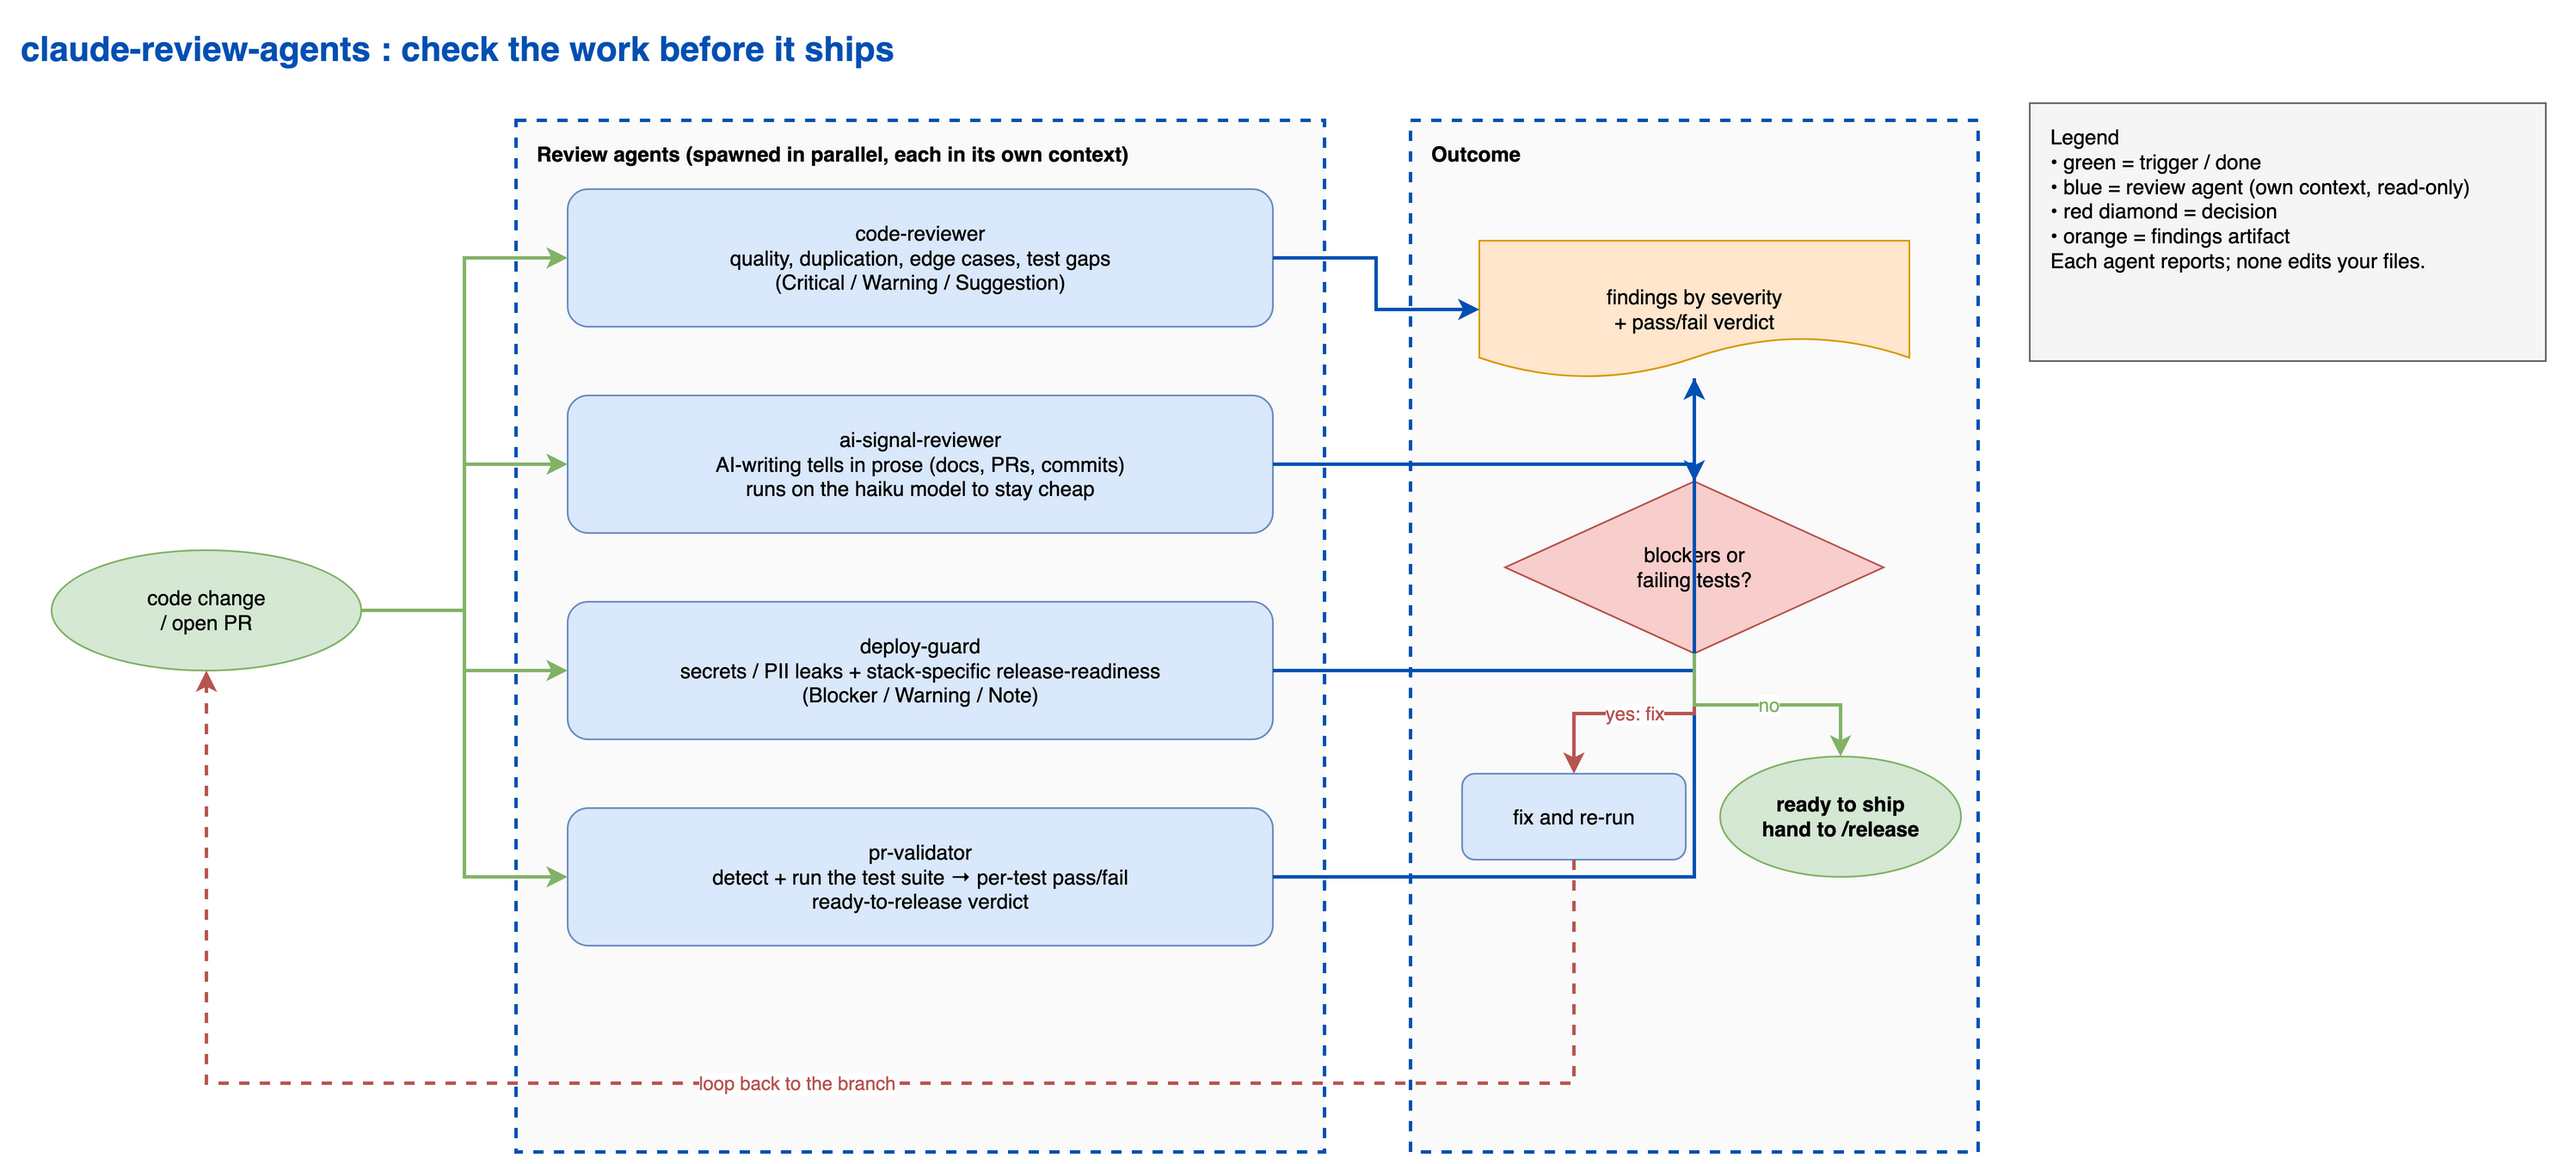
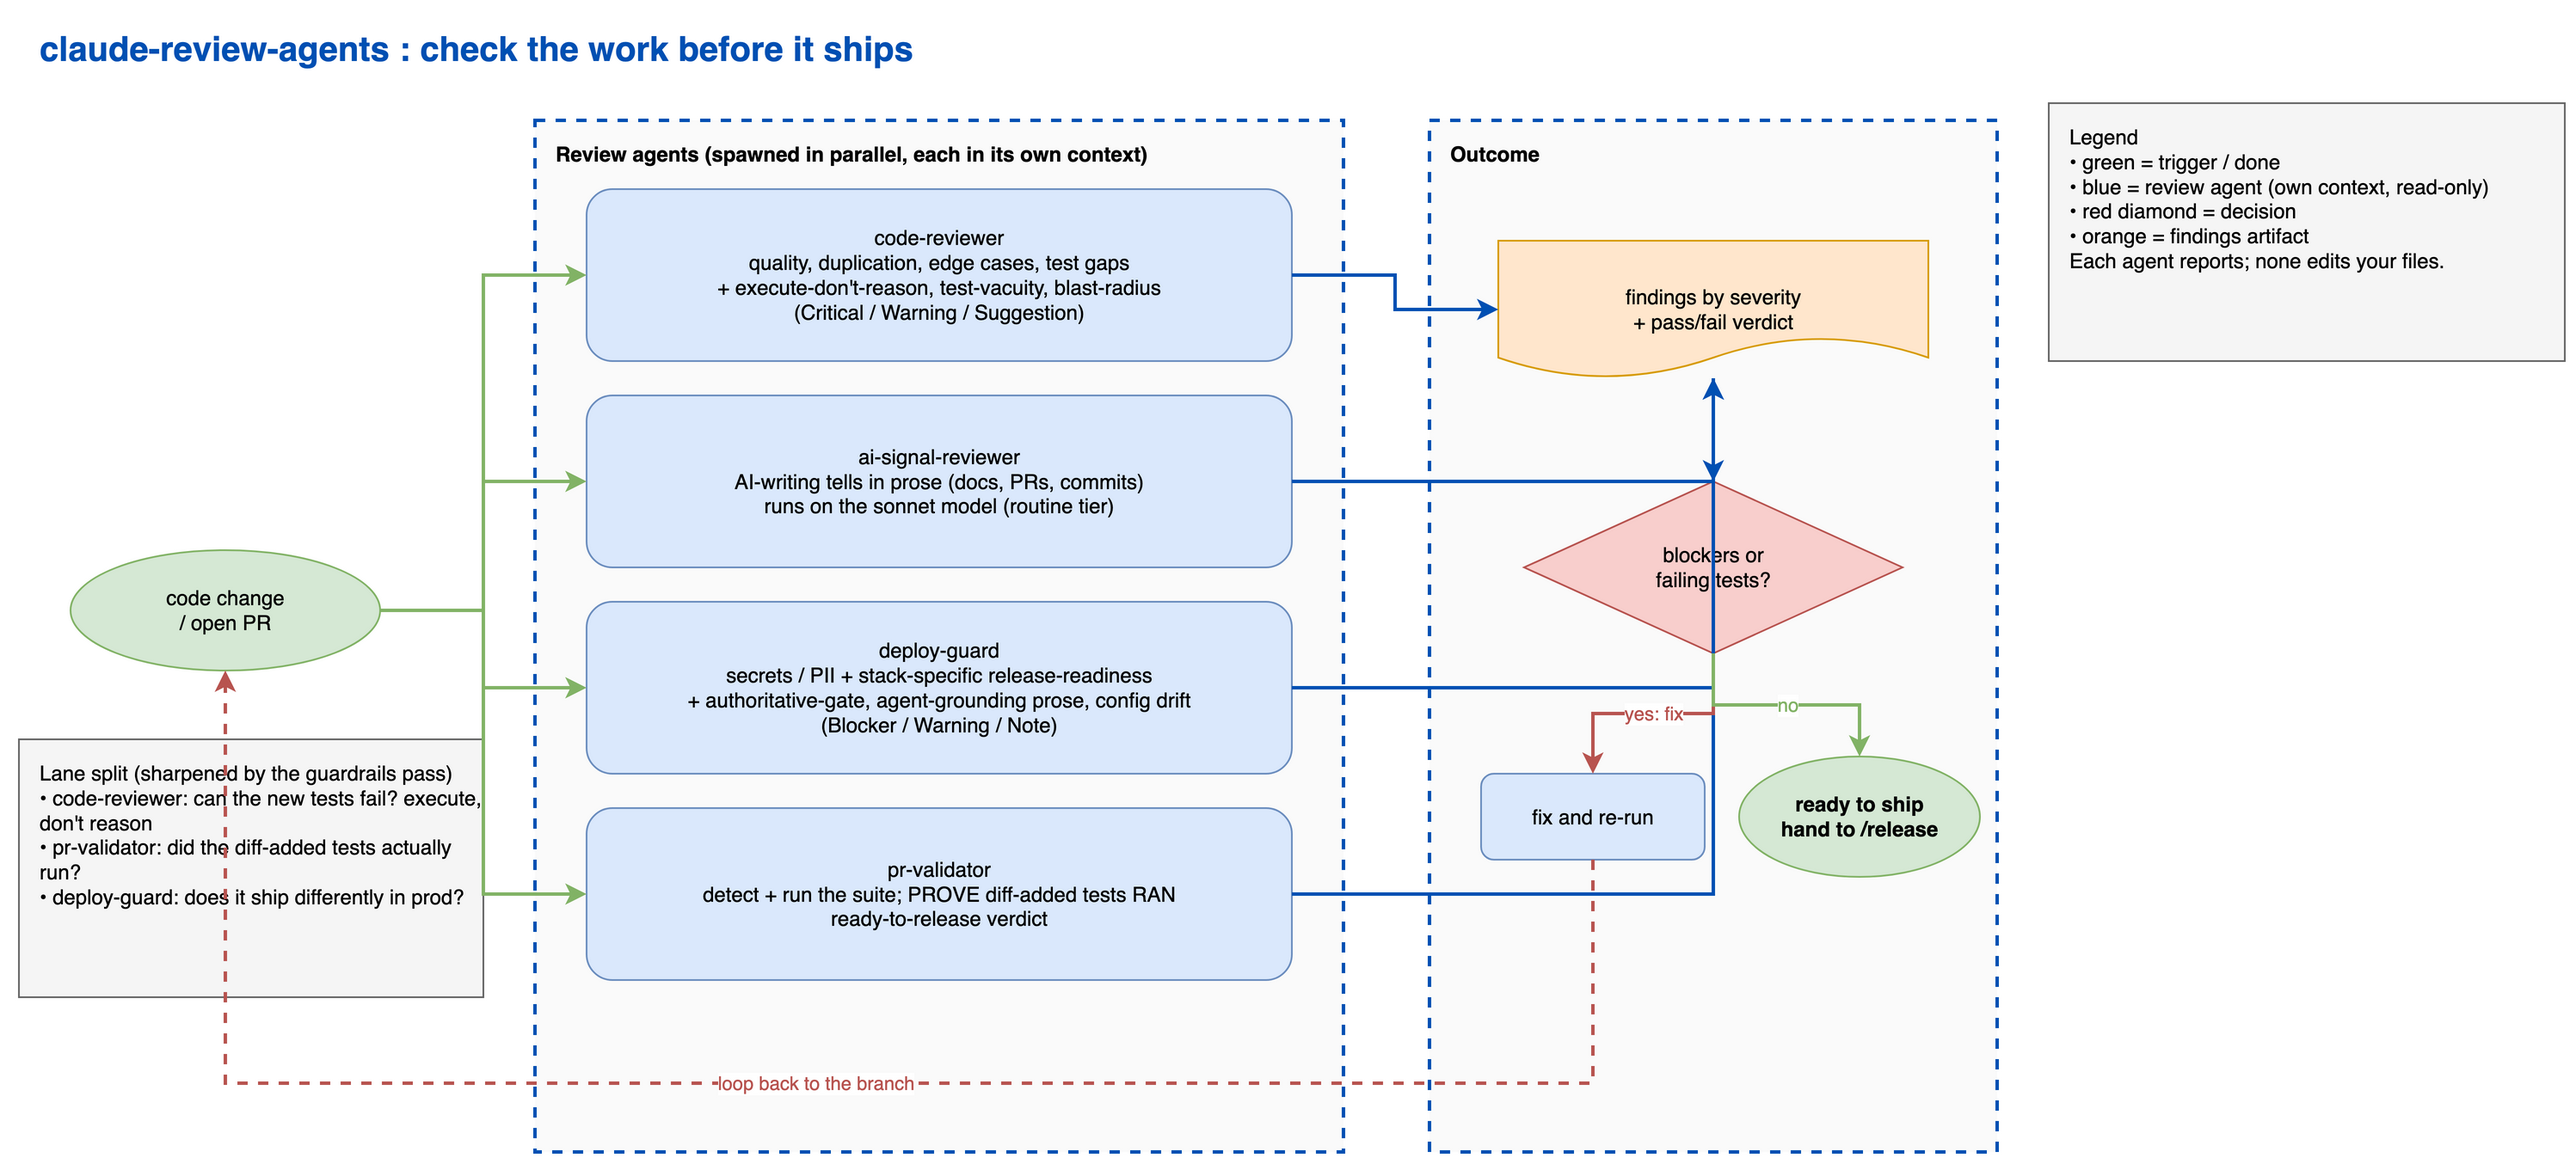
Sync 2026-07-17 guardrails upgrades into the four review agents (#2)
code-reviewer: execute-don't-reason block (with side-effect guard) plus
stale-comment, blast-radius, test-vacuity, and insertion-boundary look-fors,
and the test-lane split note. deploy-guard: config-drift and tracked-empty-file
checks, the disagreeing-gates authoritative-gate rule, and the agent-grounding-
prose check, plus a lane note. pr-validator: the run-proof ladder that proves
every diff-added test actually ran (RETURN TO PROGRAMMER when unproven).

README updated to match; the ai-signal-reviewer note corrected from the stale
haiku pin to sonnet. Flow diagram refreshed with the enhanced per-agent checks
and a lane-split note.

diff --git a/README.md b/README.md
@@ -12,10 +12,10 @@ Source: [docs/review-agents-flow.drawio](docs/review-agents-flow.drawio) (editab
 
 A Claude Code agent is a subagent with its own context window and a restricted set of tools. Claude can invoke one on its own when the description matches what you are doing, or you can ask for it by name. Each runs its review and reports back without editing your files, so the noise of a review stays out of your main conversation and you keep control of the changes.
 
-- **`code-reviewer`**: senior code review for quality and maintainability. Reads the pending `git diff`, reports findings as Critical / Warning / Suggestion with file:line and a concrete fix. Looks at clarity, duplication, error handling, edge cases, over-large functions, test coverage, and consistency with the surrounding style. Reviews only; does not edit.
-- **`ai-signal-reviewer`**: checks human-facing prose (docs, READMEs, PR descriptions, commit messages, emails) for AI writing tells and formatting traps: em dashes, AI-typical vocabulary, significance inflation, rule-of-three, elegant variation, curly quotes, and Unicode box-drawing characters in tables. Flags each issue with its location and a short replacement rather than rewriting the piece. Runs on the `haiku` model to keep it cheap; change the `model:` line in the file if you want a different one.
+- **`code-reviewer`**: senior code review for quality and maintainability. Reads the pending `git diff`, reports findings as Critical / Warning / Suggestion with file:line and a concrete fix. Looks at clarity, duplication, error handling, edge cases, over-large functions, test coverage, and consistency with the surrounding style. For changes to parsers, gates, and dispatchers it reproduces findings by executing the real path instead of reasoning about the code, and it checks new tests for vacuity (tests that cannot fail). Reviews only; does not edit.
+- **`ai-signal-reviewer`**: checks human-facing prose (docs, READMEs, PR descriptions, commit messages, emails) for AI writing tells and formatting traps: em dashes, AI-typical vocabulary, significance inflation, rule-of-three, elegant variation, curly quotes, and Unicode box-drawing characters in tables. Flags each issue with its location and a short replacement rather than rewriting the piece. Runs on the `sonnet` model (the routine-work tier); change the `model:` line in the file if you want a different one.
 - **`deploy-guard`**: pre-ship release-readiness review. Reads the pending diff, detects the stack, and reports Blocker / Warning / Note findings. Universal checks (secrets and PII leaks, config and prod hygiene, deploy-target safety) run on every project. Stack-specific profiles apply only when the diff touches that stack: Python/Django on Render (settings, migrations, POST-only views, i18n, persistent-disk and memory-accounting traps), Node/JS services, Docker, static frontends, LLM SDK usage, and Power Automate/M365. It states which stack(s) it detected at the top of its report.
-- **`pr-validator`**: runs a pull request's test suite and writes a release verdict. Reads the PR (or the branch diff against its base), summarizes what changed, detects and runs the project's test runner (pytest, npm test, Django, go test, and so on), then reports a complete per-test pass/fail list. If every test passed it marks the PR **ready for release**; if anything failed, the suite could not run, or there are no tests, it returns the PR to the programmer with the failing tests named. It runs the tests but does not edit, fix, merge, or deploy. A Claude Code agent runs inside a session, so invoke it right after you open a PR (it does not fire on the GitHub PR event by itself).
+- **`pr-validator`**: runs a pull request's test suite and writes a release verdict. Reads the PR (or the branch diff against its base), summarizes what changed, detects and runs the project's test runner (pytest, npm test, Django, go test, and so on), then reports a complete per-test pass/fail list. It also proves every test the diff adds actually ran, since a test can read as green while never executing (defined after a custom `__main__` runner, or missing from a hand-maintained call list), and returns the PR if any added test cannot be shown to have run. If every test passed it marks the PR **ready for release**; if anything failed, the suite could not run, or there are no tests, it returns the PR to the programmer with the failing tests named. It runs the tests but does not edit, fix, merge, or deploy. A Claude Code agent runs inside a session, so invoke it right after you open a PR (it does not fire on the GitHub PR event by itself).
 
 ## Install
 
@@ -32,7 +32,7 @@ They are available immediately. Ask for one by name ("have the code-reviewer loo
 
 - None of the agents edit your files; they report so you decide what to change. Three are read-only reviewers; `pr-validator` also runs the test suite (it executes tests but changes nothing else).
 - `code-reviewer` and `deploy-guard` split the work: `code-reviewer` stays on code quality, `deploy-guard` covers the shipping checks (secrets, framework correctness, deploy target). Running both before a release covers each side once.
-- `pr-validator` is the test gate before release: run it right after you open a PR to get a pass/fail verdict on the suite. It answers "do the tests pass?", which the two reviewers do not check.
+- `pr-validator` is the test gate before release: run it right after you open a PR to get a pass/fail verdict on the suite. It answers "do the tests pass?", which the two reviewers do not check. To name dead or unregistered tests it can use the `test-integrity-check.py` hook from the companion `claude-release-workflow` pack, and works without it (falling back to running each added test directly).
 - `ai-signal-reviewer` enforces a plain-prose style (no em dashes, no marketing vocabulary, no box-drawing characters in tables). Edit the rule list in the file to match your own house style.
 
 ## License

diff --git a/agents/code-reviewer.md b/agents/code-reviewer.md
@@ -16,6 +16,21 @@ When invoked:
    Suggestion (consider). For each, give file:line, the problem, and a concrete fix
    or a short example. If the diff is clean, say so plainly.
 
+## Execute, don't reason
+
+The bugs that matter live BETWEEN components; reasoning about code misses them and
+execution finds them. For changes to parsers, gates, guards, and dispatchers: run
+the actual input through the actual path before reporting a conclusion. Prefer the
+integration entrypoint (the pump, the dispatcher, the request handler) over calling
+a helper directly. A Critical must be REPRODUCED by execution, or explicitly
+labeled otherwise. Label every finding **[executed]** (you ran it and saw it) or
+**[reasoned]** (you inferred it from reading).
+
+Side-effect guard: never execute against production, live services, or real
+credentials, and never trigger an outward side effect (a real email, a real API
+write, a real deploy). When reproduction would be side-effectful, keep the finding
+**[reasoned]** and say exactly why you did not run it.
+
 Look for:
 - Clarity and readability; names that say what the thing is.
 - Duplicated logic that should be shared, and dead or unreachable code.
@@ -24,6 +39,26 @@ Look for:
 - Functions doing too much, or complexity worth splitting.
 - Test coverage for the changed behavior.
 - Consistency with the conventions and idioms already in the surrounding code.
+- Stale comments and docstrings the diff makes false, sometimes lines from the
+  change that falsifies them. Enumeration claims ("both", "all N", "every"): count
+  them against the code.
+- Shared-utility blast radius: when the diff changes a shared function, enumerate
+  its importers, then probe the axes NOT being changed (a change that targets one
+  input type but silently alters another is the canonical miss).
+- Vacuity of new tests (the vacuous-test taxonomy): helper-driven tests for behavior
+  that lives between components; multi-turn tests against a one-turn-per-call loop;
+  negative tests without a contrast assertion (the same input with the gate un-armed
+  must produce the opposite outcome); and self-referential fixtures, where a fixture
+  authored alongside the verifier shares its wrong assumption, so anchor regression
+  fixtures to REAL producer output and read the writer before trusting the checker.
+  For any new gate, recommend a mutation check: break the guard and confirm exactly
+  the intended test fails.
+- Insertion boundary: any insertion after a function in a large file gets its
+  `git diff` READ before the review ends; mid-function insertions (a swallowed
+  raise, an orphaned assert) slip through as after-the-fact catches otherwise.
+
+Your lane on tests: you judge whether the tests CAN fail and exercise the real
+path; the pr-validator agent proves they RAN. Do not duplicate its run-proof.
 
 Match the existing style rather than imposing a new one. You review only; you do
 not edit files. Keep the report specific and free of padding. If you are unsure

diff --git a/agents/pr-validator.md b/agents/pr-validator.md
@@ -26,7 +26,23 @@ When invoked:
    Run the test suite only. Do not run the app against production, send real email, or
    hit a live service; if a test needs credentials or network you cannot safely give,
    report that instead of running something risky.
-4. Write the report (format below). Base the verdict only on what actually ran.
+4. Prove every diff-added test actually RAN. A test can read as green while never
+   executing (defined after a custom `if __name__ == "__main__"` runner, or missing
+   from a hand-maintained call list); the suite output is the only evidence that
+   counts. Extract the added test names from the diff (added minus removed
+   `def test_` lines; that difference is the expected count delta, checked against
+   the per-file totals printed in THIS run, since a single run has no before/after
+   comparison). Then climb this ladder, stopping at the first rung the runner
+   supports:
+   a. The runner prints per-test names: confirm each added name appears in the output.
+   b. The runner prints only a per-file total: compare that file's printed
+      discovered-total against its `def test_` count; on a shortfall, name the dead
+      or unregistered tests (a hand-maintained call list or a custom `__main__`
+      runner can leave a `def test_` defined but never collected). The companion
+      claude-release-workflow pack ships a `test-integrity-check.py` hook that
+      automates this placement check.
+   c. Neither is available: invoke each added test directly and record the result.
+5. Write the report (format below). Base the verdict only on what actually ran.
 
 Report format:
 
@@ -45,9 +61,14 @@ Report format:
 - If any test failed or errored, the suite could not run, or there are no tests that
   cover the change: **RETURN TO PROGRAMMER**, then list the failing tests with the key
   line of each failure so the programmer can pick it up.
+- If any diff-added test could not be proven to have run (step 4): **RETURN TO
+  PROGRAMMER**, naming each unproven test and which ladder rung failed.
 
 Rules:
 - Run the tests; never edit code, fix a failing test, merge, or deploy.
+- Your lane: verifying the tests RAN is yours; whether they are GOOD tests (can they
+  fail, do they exercise the real path) is the code-reviewer's. Do not duplicate its
+  test-quality review; do not let it substitute for your did-it-run proof.
 - Certify READY FOR RELEASE only when the tests genuinely ran and all passed. "No tests
   found" or "tests could not run" is not a pass: return it to the programmer and say why.
 - Report the exact command you ran so the result is reproducible.

diff --git a/agents/deploy-guard.md b/agents/deploy-guard.md
@@ -9,6 +9,10 @@ You are a release-readiness reviewer. Your one job is to read the pending diff a
 report anything that should be fixed before it ships. You review only. You do not
 edit files.
 
+Test quality is not your lane: whether new tests can fail is the code-reviewer's,
+whether they ran is the pr-validator's. Raise a test only when shipping it does
+something production-specific.
+
 When invoked:
 1. Run `git diff` (and `git status`) to see the pending changes. Focus on changed
    files, but read enough surrounding code to judge each finding.
@@ -42,6 +46,28 @@ Config and prod hygiene (Blockers if they reach prod, else Warnings):
 - Host/origin allowlists (ALLOWED_HOSTS, CORS, CSRF trusted origins) are set for prod.
 - No build artifacts, caches, local DBs, or editor cruft committed that should be
   in `.gitignore`.
+- Before reporting env/config DRIFT (a key set live but undeclared, or declared but
+  never set), check the project's documented conventions for deliberately-undeclared
+  defaults: a default-on kill-switch may be intentionally absent from the blueprint,
+  and some projects carry a boxed "do not fix this" note. Only a declared-off or
+  live-only key is drift.
+- A TRACKED file that is meant to ship empty but gets filled at runtime is a ship
+  risk: a stray `git add -A` converts its runtime content into a committed leak.
+  Flag it and recommend gitignoring the runtime-filled path or splitting the file.
+
+Disagreeing gates (before proposing any content change):
+- When two linters or checkers disagree about the same content, identify the
+  AUTHORITATIVE release gate first (the one the release process actually blocks on)
+  and judge against it. Never propose mangling correct content to satisfy a
+  non-gate linter; a reviewer suggestion is not automatically correct. Name which
+  gate you treated as authoritative.
+
+Agent-grounding prose ships as code (production lane):
+- When the diff ships prose a deployed agent grounds on (self-docs, capability
+  pages, system-prompt source), verify every capability claim against the code, not
+  against a README or memory of the session. Quantifiers are the danger words:
+  "every", "all", "anything", "both". An over-claim deploys a confabulation source,
+  which is exactly the failure such pages exist to prevent.
 
 Deploy target (Blocker if ambiguous):
 - For a project that has a near-identical sibling repo or service (for example a
